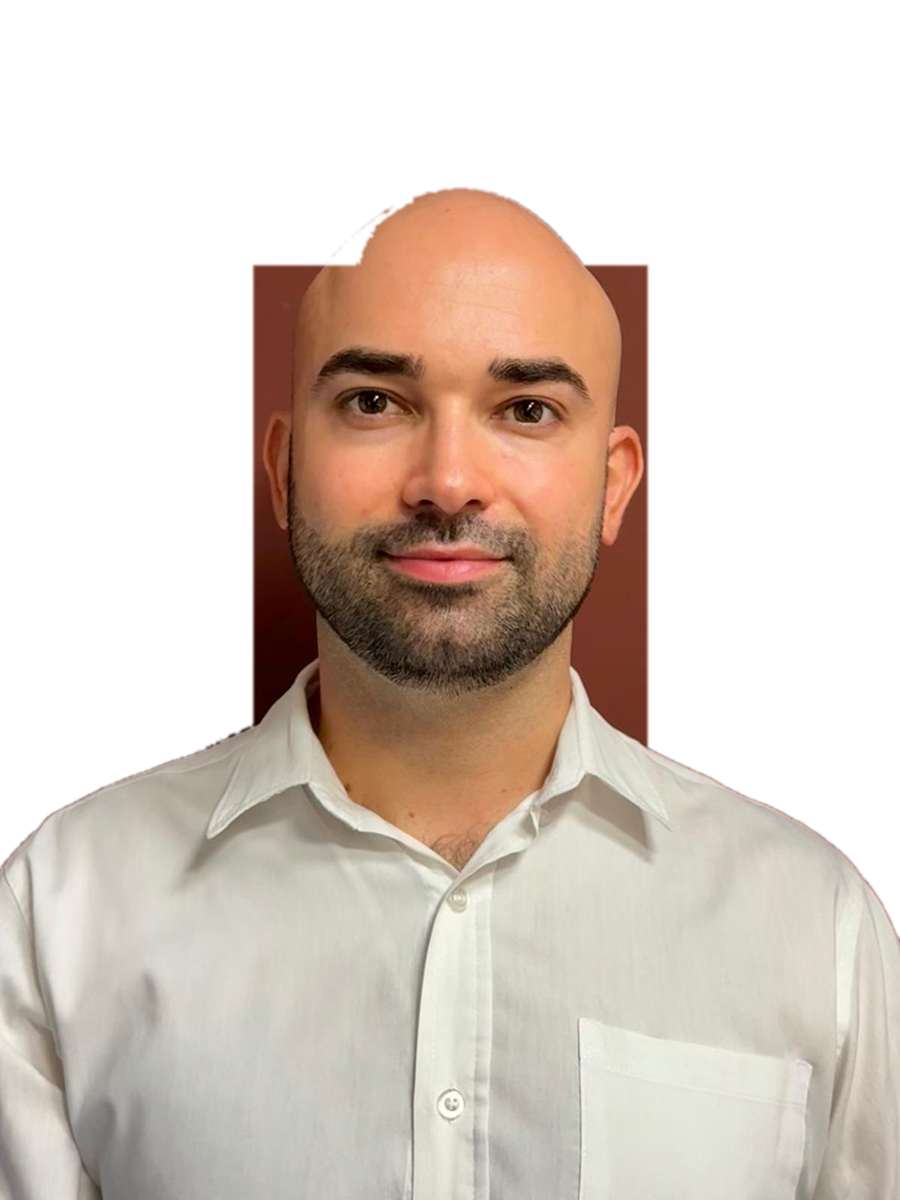
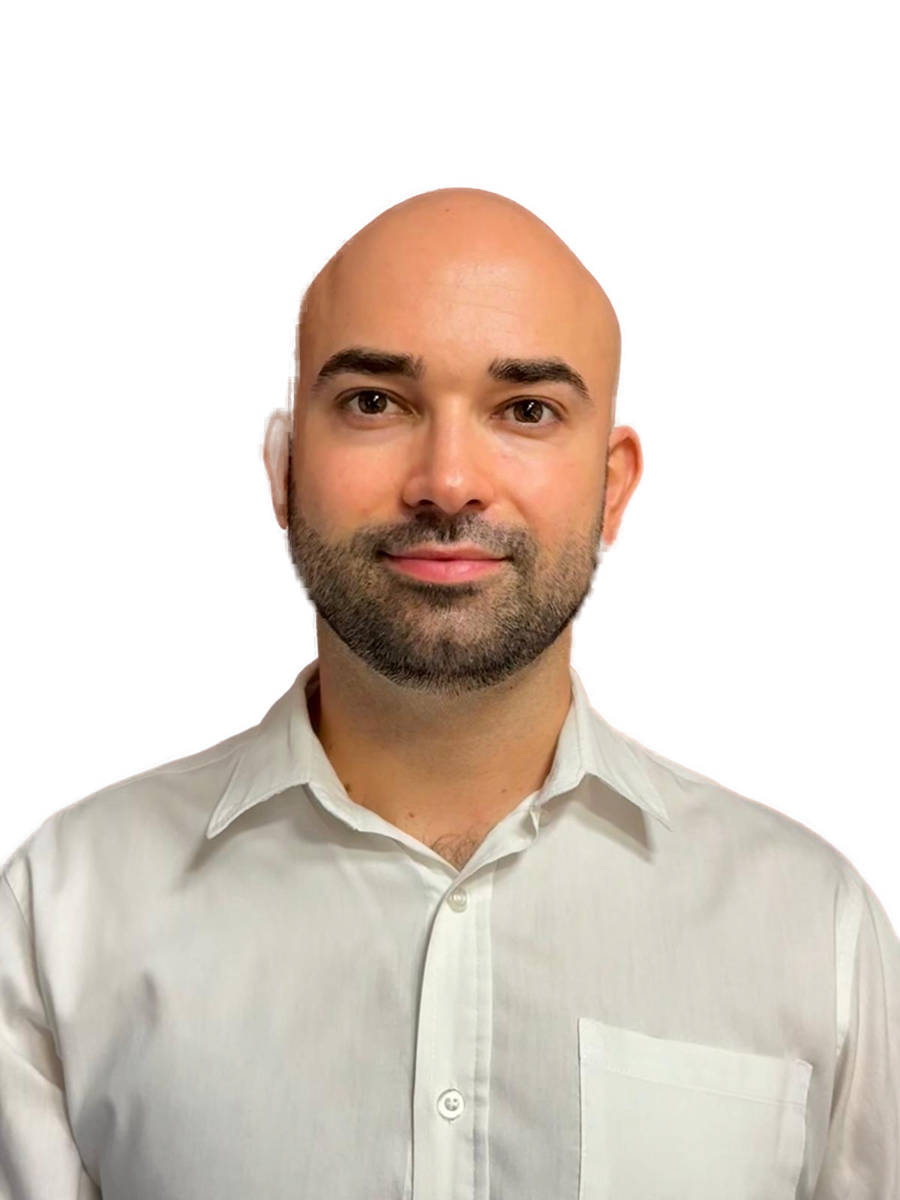
feat: foto perfil — retrato-en-sistema + fondo duotono con sujeto siempre a color

diff --git a/src/components/vinetas/vinetas.css b/src/components/vinetas/vinetas.css
@@ -15,12 +15,18 @@
   align-items: start;
 }
 
-/* Marco técnico de la foto de perfil (§6.3/§7) — ESTADO BASE (rev. 2026-06-12):
-   marco con cuadrícula tenue + 4 esquinas terracota y hover b/n→color (la
-   interacción canónica del §6.3). El tratamiento de profundidad (tilt 3D +
-   pop-out del sujeto) se revirtió; el rediseño se integrará desde Design
-   (contexto técnico: docs/FOTO-PERFIL-ESTADO.md). */
+/* Marco técnico de la foto de perfil (§6.3/§7) — RETRATO DENTRO DEL SISTEMA
+   (rev. 2026-06-12 noche). Tres capas: FONDO en duotono terracota/negro que
+   aterriza en color al hover · LÍNEAS-NODO del sistema (la timeline entra
+   hacia el marco) · SUJETO recortado SIEMPRE a color pleno por delante.
+   El §7 se mantiene: foto base + recorte = la misma imagen lógica; b/n→color
+   sigue siendo el gesto exclusivo de esta foto, aplicado solo al fondo.
+   Un gesto al hover (fondo aterriza, nodo se enciende); después, quieto.
+   Geometría de líneas y nodo: constantes en FotoPerfil.tsx. */
 .foto-marco {
+  /* parámetros del duotono del fondo (ajuste fino aquí) */
+  --duo-tinte: 0.9;   /* opacidad del tinte terracota: 0 = b/n puro, 1 = duotono pleno */
+  --duo-luz: 1.5;     /* aclarado de la base gris antes del tinte (sube = más terracota) */
   position: relative;
   margin: 0 0 clamp(2.2rem, 4.5vh, 3rem);
   max-width: 300px;
@@ -31,18 +37,90 @@
     #FAF8F6;
   box-shadow: 0 14px 34px -16px rgba(10, 10, 10, 0.3);
 }
-.foto-marco__clip {
+
+/* capa 1 · fondo en duotono: foto en gris aclarado × tinte terracota
+   multiplicado (luces→terracota, sombras→negro). El hover funde el tinte
+   (opacity) y devuelve el color (filter: el gesto canónico b/n→color). */
+.foto-marco__fondo {
+  position: absolute;
+  inset: 0;
+  overflow: hidden;
+  isolation: isolate;                        /* el multiply no atraviesa la capa */
+}
+.foto-marco__fondo img {
+  object-fit: cover;
+  object-position: center 28%;               /* encuadre: el rostro manda */
+  filter: grayscale(1) brightness(var(--duo-luz));
+  transition: filter var(--dur-slow) var(--ease-out);
+}
+.foto-marco__fondo::after {
+  content: "";
+  position: absolute;
+  inset: 0;
+  background: var(--terracotta);
+  mix-blend-mode: multiply;
+  opacity: var(--duo-tinte);
+  transition: opacity var(--dur-slow) var(--ease-out);
+}
+.foto-marco:hover .foto-marco__fondo img { filter: none; }
+.foto-marco:hover .foto-marco__fondo::after { opacity: 0; }
+
+/* capa 2 · el sistema: la línea de la timeline entra hacia el nodo.
+   El conector cae por debajo del marco y se desvanece hacia el árbol. */
+.foto-sistema {
+  position: absolute;
+  inset: 0;
+  width: 100%;
+  height: 100%;
+  overflow: visible;
+  pointer-events: none;
+}
+.foto-sistema__linea,
+.foto-sistema__conector {
+  fill: none;
+  stroke: var(--terracotta);
+  stroke-width: 2;
+  vector-effect: non-scaling-stroke;         /* trazo 2px nítido a cualquier tamaño */
+  opacity: 0.65;
+  transition: opacity var(--dur-slow) var(--ease-out);
+}
+.foto-sistema__conector { stroke: url(#foto-conector-fade); }
+.foto-sistema__fade-a { stop-color: var(--terracotta); }
+.foto-sistema__fade-b { stop-color: var(--terracotta); stop-opacity: 0; }
+.foto-marco:hover .foto-sistema__linea,
+.foto-marco:hover .foto-sistema__conector { opacity: 0.9; }
+
+/* capa 3 · sujeto: SIEMPRE a color pleno — reposo, hover, táctil,
+   reduced-motion. Sin excepción: la persona es el ancla cálida. */
+.foto-marco__sujeto {
   position: absolute;
   inset: 0;
   overflow: hidden;
 }
-.foto-marco img {
+.foto-marco__sujeto img {
   object-fit: cover;
-  object-position: center 28%;               /* encuadre: el rostro manda */
-  filter: grayscale(1);                      /* §5 hover notable: b/n → color */
-  transition: filter var(--dur-slow) ease-in-out;
+  object-position: center 28%;               /* idéntico al fondo: casan al píxel */
 }
-.foto-marco:hover img { filter: none; }
+
+/* nodo de conexión: bisecado por el borde inferior, nivel del marco */
+.foto-nodo {
+  position: absolute;
+  bottom: 0;
+  width: 9px;
+  height: 9px;
+  background: var(--terracotta);
+  opacity: 0.85;
+  transform: translate(-50%, 50%) rotate(45deg);
+  transition: transform var(--dur-slow) var(--ease-out),
+              opacity var(--dur-slow) var(--ease-out);
+  z-index: 1;
+}
+.foto-marco:hover .foto-nodo {
+  opacity: 1;
+  transform: translate(-50%, 50%) rotate(45deg) scale(1.35);  /* se enciende */
+}
+
+/* esquinas vivas → puntos de conexión del sistema */
 .fcorner {
   position: absolute;
   width: 16px; height: 16px;
@@ -53,6 +131,40 @@
 .fcorner--tr { top: 0; right: 0; border-top-width: 2px; border-right-width: 2px; }
 .fcorner--bl { bottom: 0; left: 0; border-bottom-width: 2px; border-left-width: 2px; }
 .fcorner--br { bottom: 0; right: 0; border-bottom-width: 2px; border-right-width: 2px; }
+.fcorner::after {
+  content: "";
+  position: absolute;
+  width: 4px;
+  height: 4px;
+  background: var(--terracotta);
+  opacity: 0.8;
+  transition: opacity var(--dur-slow) var(--ease-out);
+}
+.fcorner--tl::after { top: -1px; left: -1px; }
+.fcorner--tr::after { top: -1px; right: -1px; }
+.fcorner--bl::after { bottom: -1px; left: -1px; }
+.fcorner--br::after { bottom: -1px; right: -1px; }
+.foto-marco:hover .fcorner::after { opacity: 1; }
+
+/* táctil y reduced-motion: estado final completo desde el principio —
+   fondo a color, nodo encendido, líneas plenas (fallback digno; el sujeto
+   ya está a color siempre). */
+@media (hover: none), (prefers-reduced-motion: reduce) {
+  .foto-marco__fondo img { filter: none; }
+  .foto-marco__fondo::after { opacity: 0; }
+  .foto-sistema__linea,
+  .foto-sistema__conector { opacity: 0.9; }
+  .foto-nodo { opacity: 1; transform: translate(-50%, 50%) rotate(45deg) scale(1.35); }
+  .fcorner::after { opacity: 1; }
+}
+@media (prefers-reduced-motion: reduce) {
+  .foto-marco__fondo img,
+  .foto-marco__fondo::after,
+  .foto-sistema__linea,
+  .foto-sistema__conector,
+  .foto-nodo,
+  .fcorner::after { transition: none; }
+}
 
 /* El árbol de convergencia: tronco + ramas a 45° + nodos rombo */
 .arbol { position: relative; }

diff --git a/src/components/vinetas/FotoPerfil.tsx b/src/components/vinetas/FotoPerfil.tsx
@@ -1,13 +1,32 @@
 import Image from "next/image";
 import "./vinetas.css";
 
-/* FOTO DE PERFIL (§6.3/§7 · Sobre mí) — ESTADO BASE (rev. 2026-06-12).
-   El tratamiento de profundidad (tilt 3D + pop-out del sujeto recortado)
-   se revirtió: la ampliación al interactuar desvirtuaba la viñeta. Queda
-   el mínimo sólido y canónico del §6.3: marco técnico de esquinas +
-   hover b/n→color. Sin JS — ya no es client component.
-   El rediseño del tratamiento llegará de Design; el contexto técnico
-   para integrarlo vive en docs/FOTO-PERFIL-ESTADO.md. */
+/* FOTO DE PERFIL (§6.3/§7 · Sobre mí) — RETRATO DENTRO DEL SISTEMA
+   (rev. 2026-06-12 noche). Dos capas: el FONDO de la foto en duotono
+   terracota/negro que aterriza en color al hover, y el SUJETO recortado
+   por delante, SIEMPRE a color pleno — la persona sobre la estructura.
+   La línea de la timeline entra desde abajo hacia un nodo-rombo sobre el
+   borde inferior del marco; al hover el nodo se enciende y la línea gana
+   intensidad. Sin JS: el gesto es CSS puro (sigue siendo server component).
+   El §7 se mantiene: foto base + recorte = la misma imagen lógica (el
+   retrato); b/n→color sigue siendo exclusivo de esta foto (solo el fondo). */
+
+/* ── Parámetros (ajuste fino aquí; intensidad del duotono en vinetas.css) ── */
+const FOTO_FONDO = "/foto-perfil.jpg"; /* capa fondo — recibe el duotono */
+const FOTO_SUJETO = "/foto-perfil-cut.png"; /* sujeto recortado — siempre color */
+
+/* Geometría del sistema en unidades del viewBox 240×300 (marco 4:5).
+   Calibrada contra el encuadre actual (object-position center 28%): la
+   línea queda oculta tras la camisa, emerge en el hombro izquierdo, quiebra
+   a 45° y muere detrás del rostro. Si cambia la foto o el encuadre,
+   recalibrar estos valores. */
+const NODO_X = 14; /* eje X del nodo: prolonga el tronco del árbol (x=14) */
+const CODO_Y = 184; /* altura donde la línea emerge del hombro y quiebra */
+const CODO = 34; /* avance del tramo a 45° (igual en X que en Y) */
+const FIN_X = 104; /* la horizontal muere aquí, detrás del rostro */
+const CONECTOR = 34; /* caída hacia la timeline (se desvanece, no necesita tocar) */
+
+const LINEA = `M ${NODO_X} 300 V ${CODO_Y} L ${NODO_X + CODO} ${CODO_Y - CODO} H ${FIN_X}`;
 
 export default function FotoPerfil() {
   return (
@@ -16,15 +35,60 @@ export default function FotoPerfil() {
       <span className="fcorner fcorner--tr" aria-hidden="true" />
       <span className="fcorner fcorner--bl" aria-hidden="true" />
       <span className="fcorner fcorner--br" aria-hidden="true" />
-      <span className="foto-marco__clip">
+
+      {/* capa 1 · fondo: la foto completa, en duotono terracota/negro */}
+      <span className="foto-marco__fondo" aria-hidden="true">
         <Image
-          src="/foto-perfil.jpg"
+          src={FOTO_FONDO}
+          alt=""
+          fill
+          sizes="(max-width: 820px) 240px, 300px"
+        />
+      </span>
+
+      {/* capa 2 · el sistema: la línea de la timeline entra hacia el nodo */}
+      <svg className="foto-sistema" viewBox="0 0 240 300" aria-hidden="true">
+        <defs>
+          <linearGradient
+            id="foto-conector-fade"
+            gradientUnits="userSpaceOnUse"
+            x1="0"
+            y1="300"
+            x2="0"
+            y2={300 + CONECTOR}
+          >
+            <stop className="foto-sistema__fade-a" offset="0" />
+            <stop className="foto-sistema__fade-b" offset="1" />
+          </linearGradient>
+        </defs>
+        <line
+          className="foto-sistema__conector"
+          x1={NODO_X}
+          y1="300"
+          x2={NODO_X}
+          y2={300 + CONECTOR}
+        />
+        <path className="foto-sistema__linea" d={LINEA} />
+      </svg>
+
+      {/* capa 3 · sujeto: SIEMPRE a color pleno, delante de las líneas */}
+      <span className="foto-marco__sujeto">
+        <Image
+          src={FOTO_SUJETO}
           alt="Marc Sola Bel"
           fill
           sizes="(max-width: 820px) 240px, 300px"
-          className="foto-marco__img"
         />
       </span>
+
+      {/* nodo de conexión: vive en el nivel del marco (como las esquinas) —
+          bisecado por el borde inferior; sobre el sujeto, que en esa zona
+          tocaría el borde y lo ocultaría */}
+      <span
+        className="foto-nodo"
+        style={{ left: `${(NODO_X / 240) * 100}%` }}
+        aria-hidden="true"
+      />
     </figure>
   );
 }

diff --git a/docs/FOTO-PERFIL-ESTADO.md b/docs/FOTO-PERFIL-ESTADO.md
@@ -1,5 +1,18 @@
 # Foto de perfil (viñeta 3 · Sobre mí) — estado técnico para el rediseño
 
+> **ACTUALIZACIÓN 2026-06-12 (noche): el rediseño ya está implementado.** El tratamiento
+> vigente es "retrato dentro del sistema" + fondo duotono con sujeto siempre a color:
+> tres capas (fondo de la foto en duotono terracota/negro que aterriza en color al hover ·
+> líneas-nodo del sistema que conectan la timeline con el marco · sujeto recortado SIEMPRE
+> a color pleno por delante). Sin JS — sigue siendo server component; el gesto es CSS puro.
+> La fuente de verdad es el código: `src/components/vinetas/FotoPerfil.tsx` (geometría de
+> líneas/nodo parametrizada en constantes) + bloque "Marco técnico" de
+> `src/components/vinetas/vinetas.css` (intensidad del duotono en `--duo-tinte`/`--duo-luz`).
+> El recorte `public/foto-perfil-cut.png` se regeneró con rembg (matting, sin halos);
+> pipeline reproducible en `scripts/recortar-perfil.mjs`. Táctil y reduced-motion muestran
+> el estado final (fondo a color, nodo encendido). Lo que sigue abajo describe el **estado
+> base previo** sobre el que se integró — vale como historia y contexto del marco.
+
 > Documento de handoff hacia Claude Design. Refleja el **estado base** tras revertir el
 > tratamiento de profundidad (2026-06-12): el tilt 3D y el pop-out/ampliación del sujeto
 > desvirtuaban la viñeta y se retiraron. Lo que queda es el mínimo sólido y canónico.